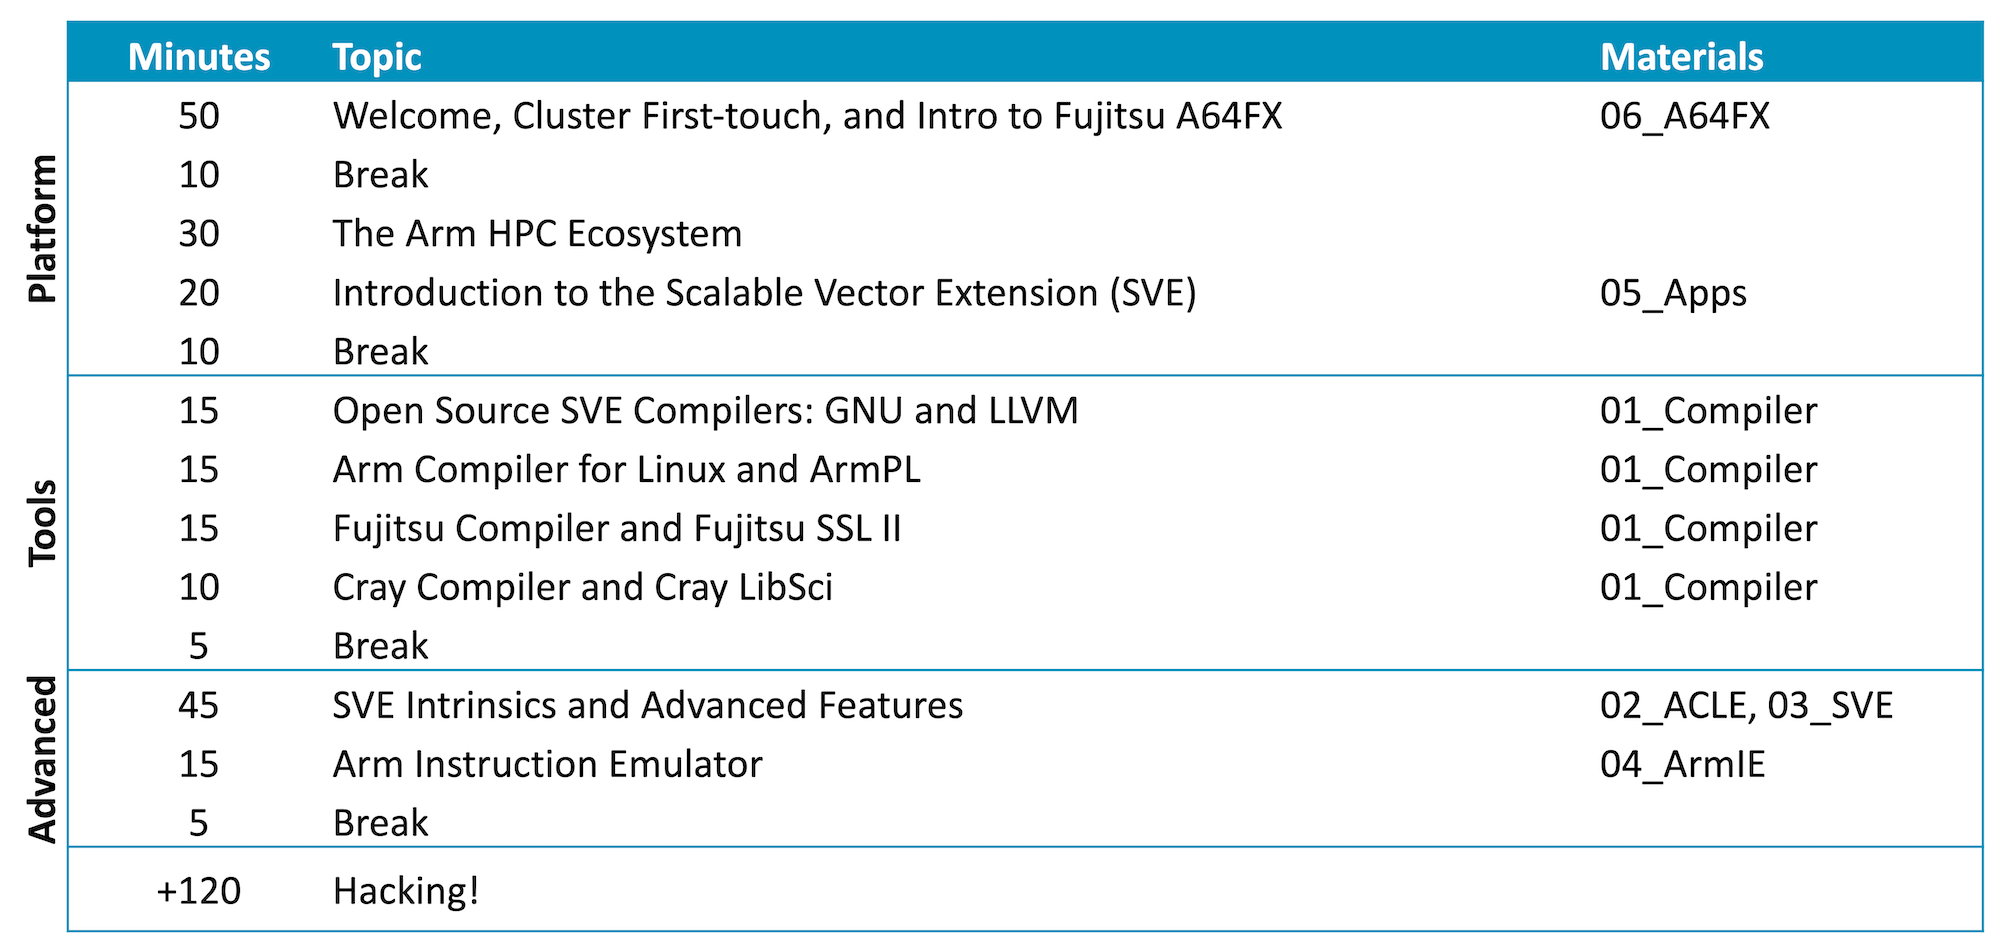
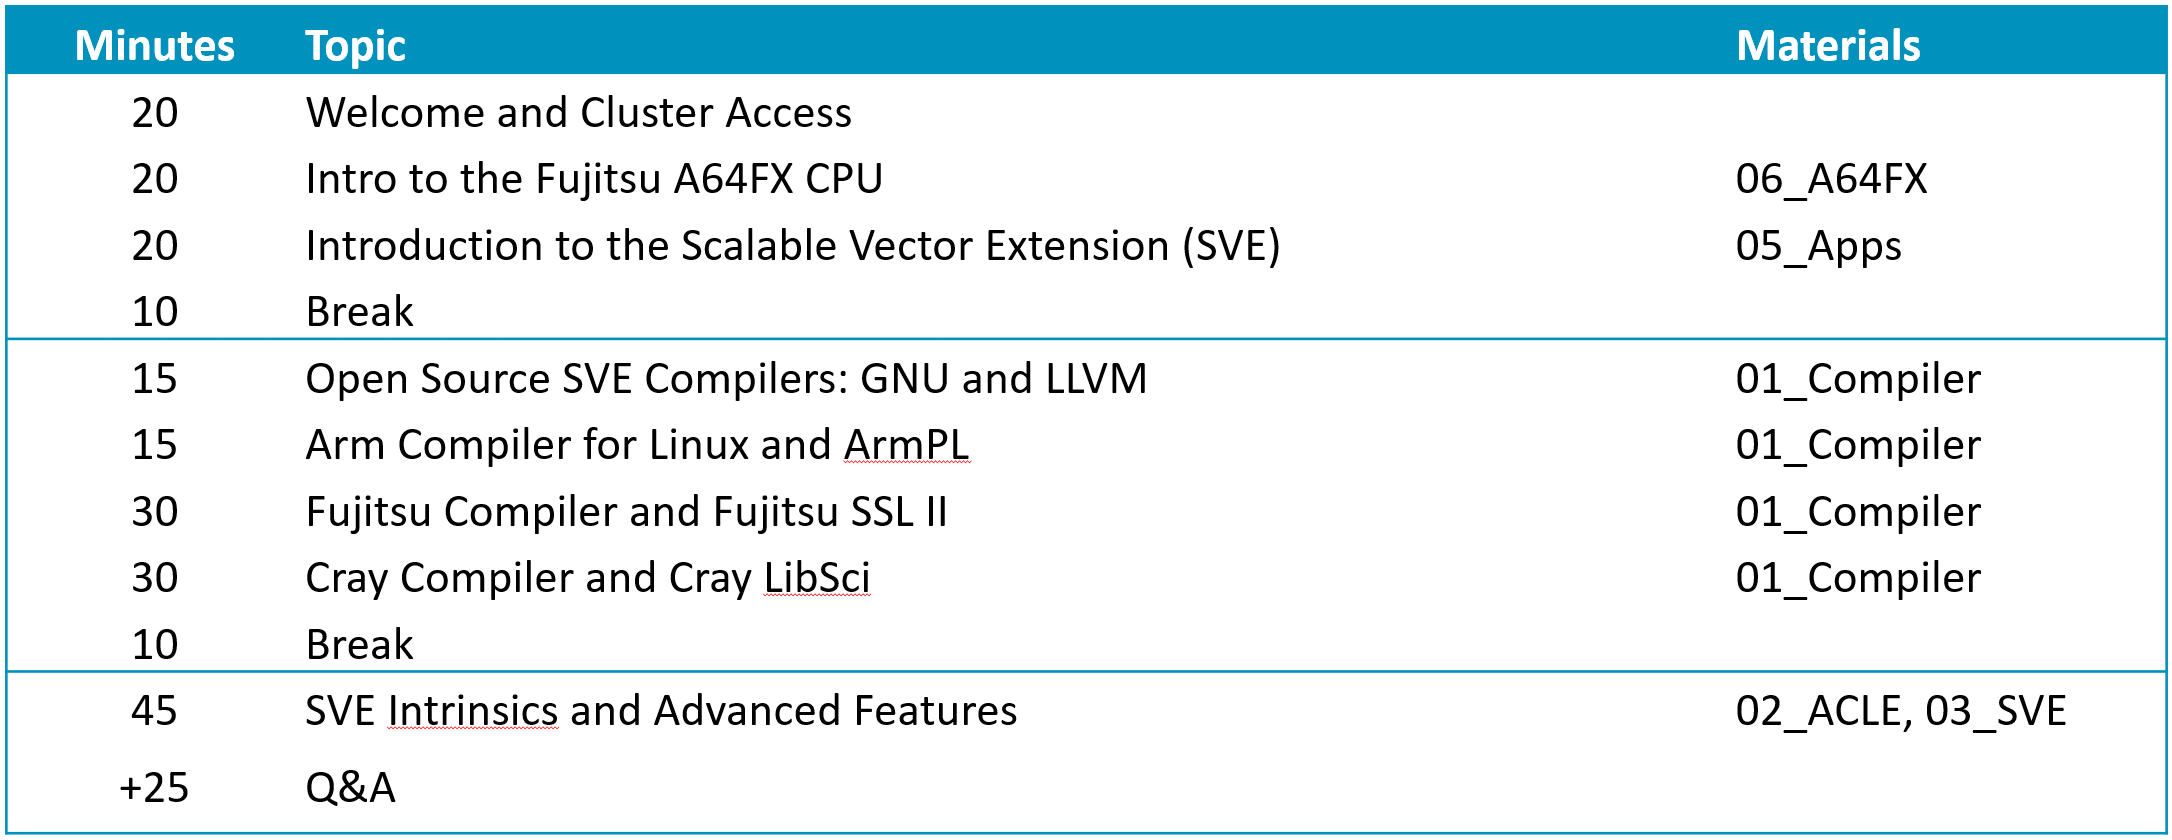
Add schedule.

diff --git a/index.md b/index.md
@@ -3,7 +3,7 @@
 The event starts at **5:00am PST / 8:00am EST / 1:00pm BST** with cluster login 
 instructions and an introduction to the Fujitsu A64FX.  
 
-<!-- ![Schedule](/schedule.png) -->
+![Schedule](/schedule.png)
           
  * **Registration**: ISC 2021 registration is required to attend this tutorial.  Please [register for ISC 2021 tutorials.](https://www.isc-hpc.com/registration-2021.html)
 
